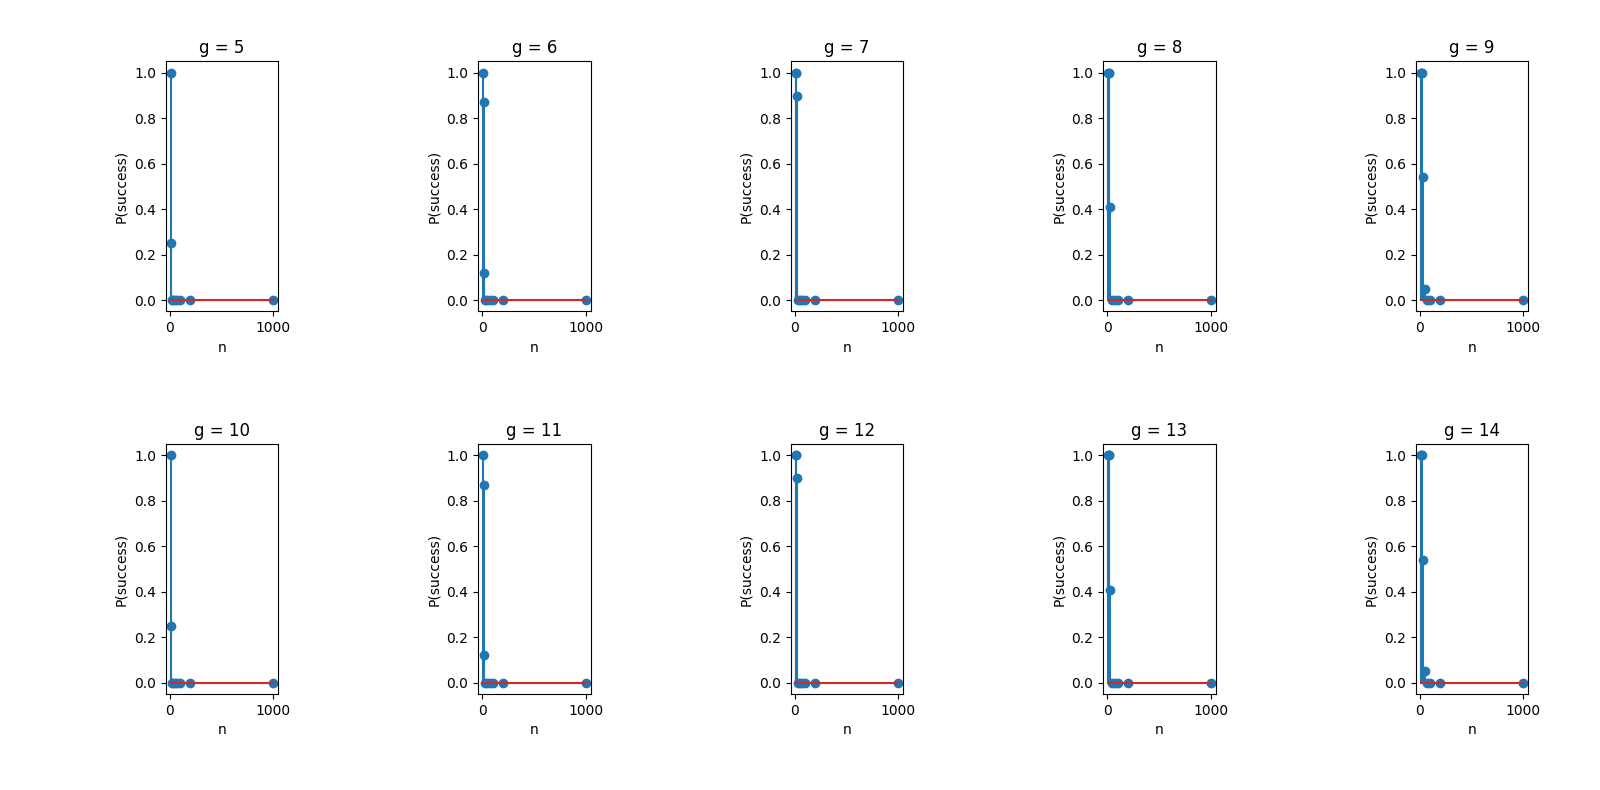
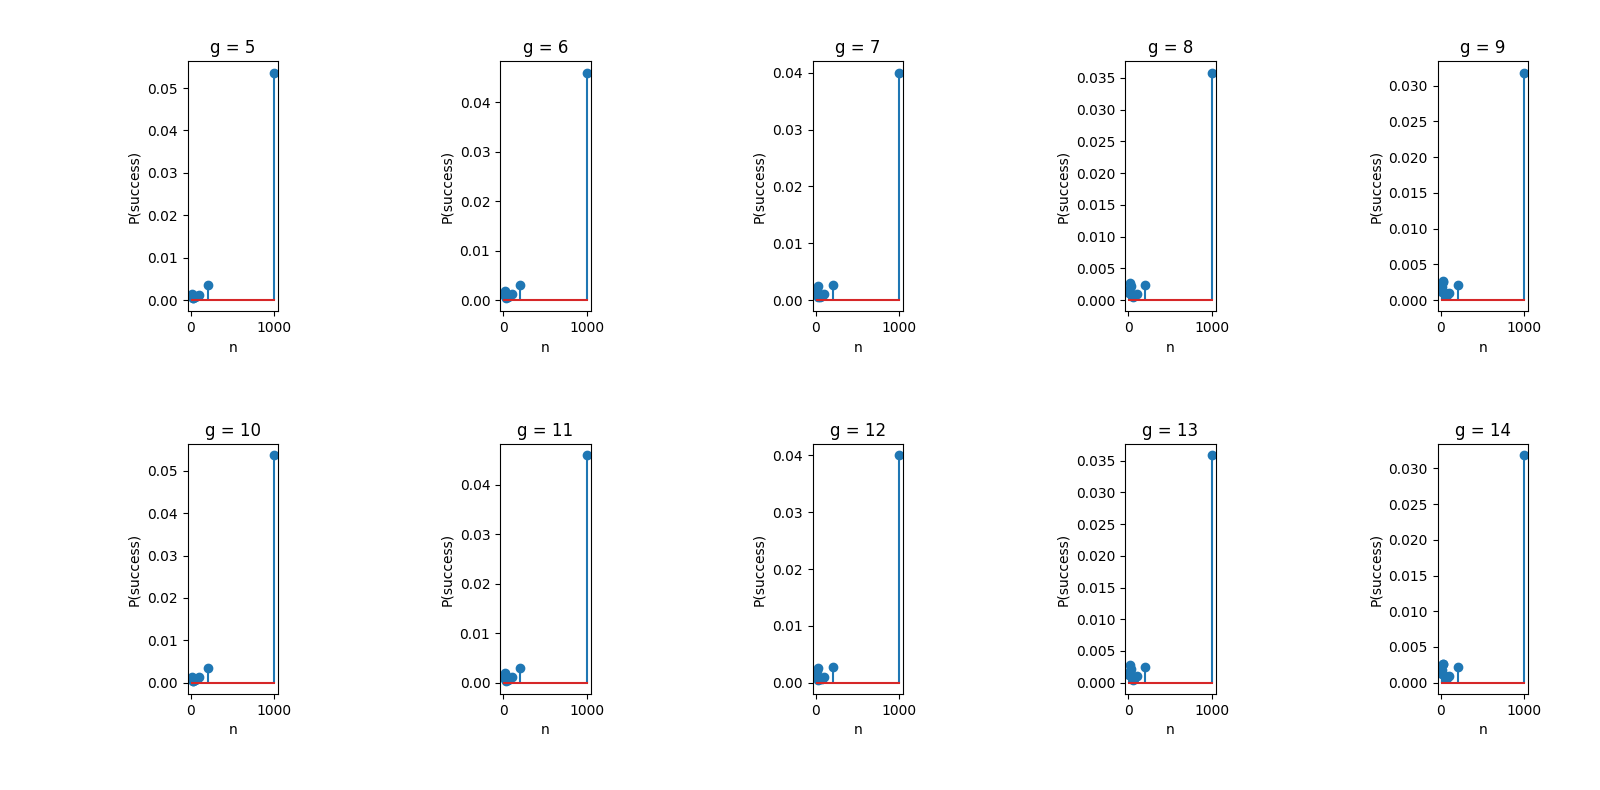
Merge remote-tracking branch 'origin/misha_dev' into misha_dev

diff --git a/stats.py b/stats.py
@@ -6,7 +6,7 @@ pd.set_option('max_columns', None)
 
 
 def get_data(path):
-    df = pd.read_csv("cmake-build-debug/res2.txt", sep=" ")
+    df = pd.read_csv("data/res2.txt", sep=" ")
     return df
 
 
@@ -16,7 +16,7 @@ for i in range(2):
     k = 0
     for j in range(0, int(df.shape[0] / 2), 9):
         print(df.iloc[j: j + 9])
-        ax[i][k].stem(df.iloc[j: j + 9]['g'], df.iloc[j: j + 9]['P(success)'])
+        ax[i][k].stem(df.iloc[j: j + 9]['g'], df.iloc[j: j + 9]['P(failure)'])
         ax[i][k].set_title(f'g = {k + 5 * i + 5}')
         ax[i][k].set_xlabel("n")
         ax[i][k].set_ylabel("P(success)")

diff --git a/main.cpp b/main.cpp
@@ -23,7 +23,7 @@ int main() {
     double avgTime = 0;
     double avgAvailVertex = 0;
     vector<int> N;
-    N = { 1000, 200, 100, 70, 50, 30, 20, 15, 10};
+    N = { 1000,500,400,300, 200, 100, 70, 50, 30, 20, 15, 10};
     ofstream file("res2.txt");
     ofstream fileGraph("graph.txt");
     clock_t start, end;
